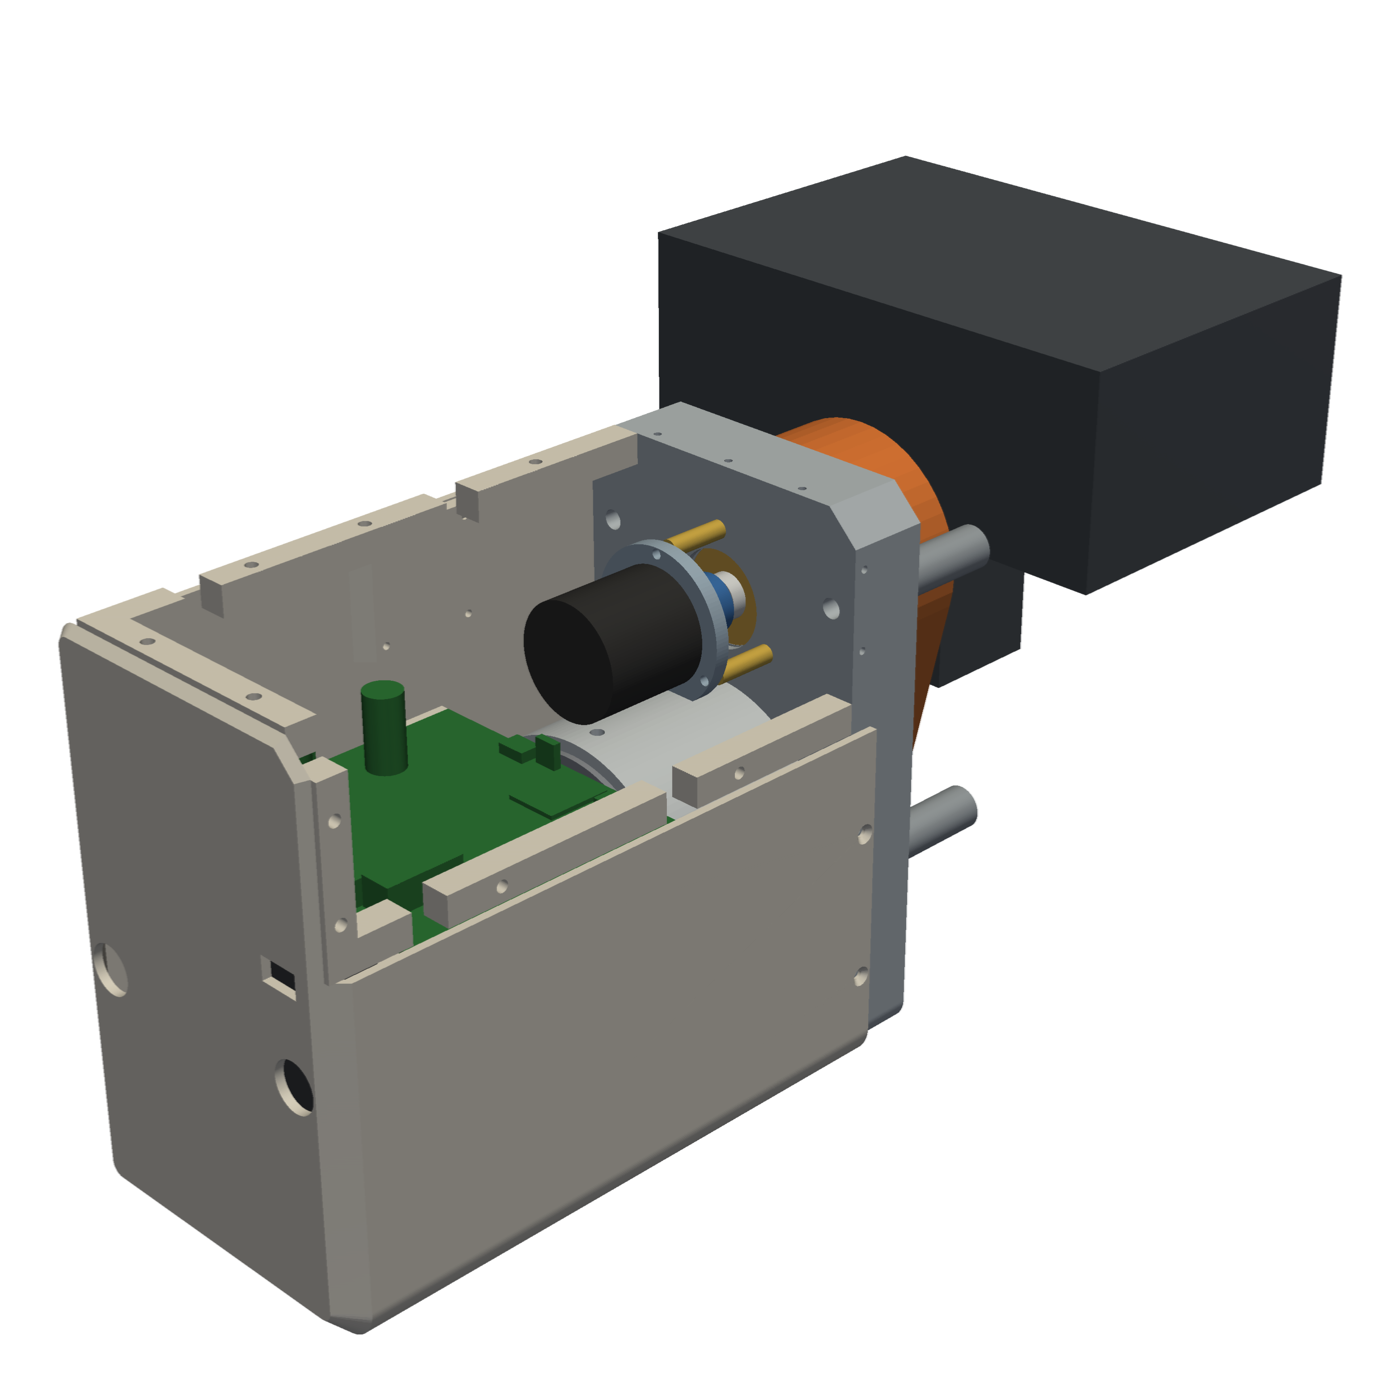
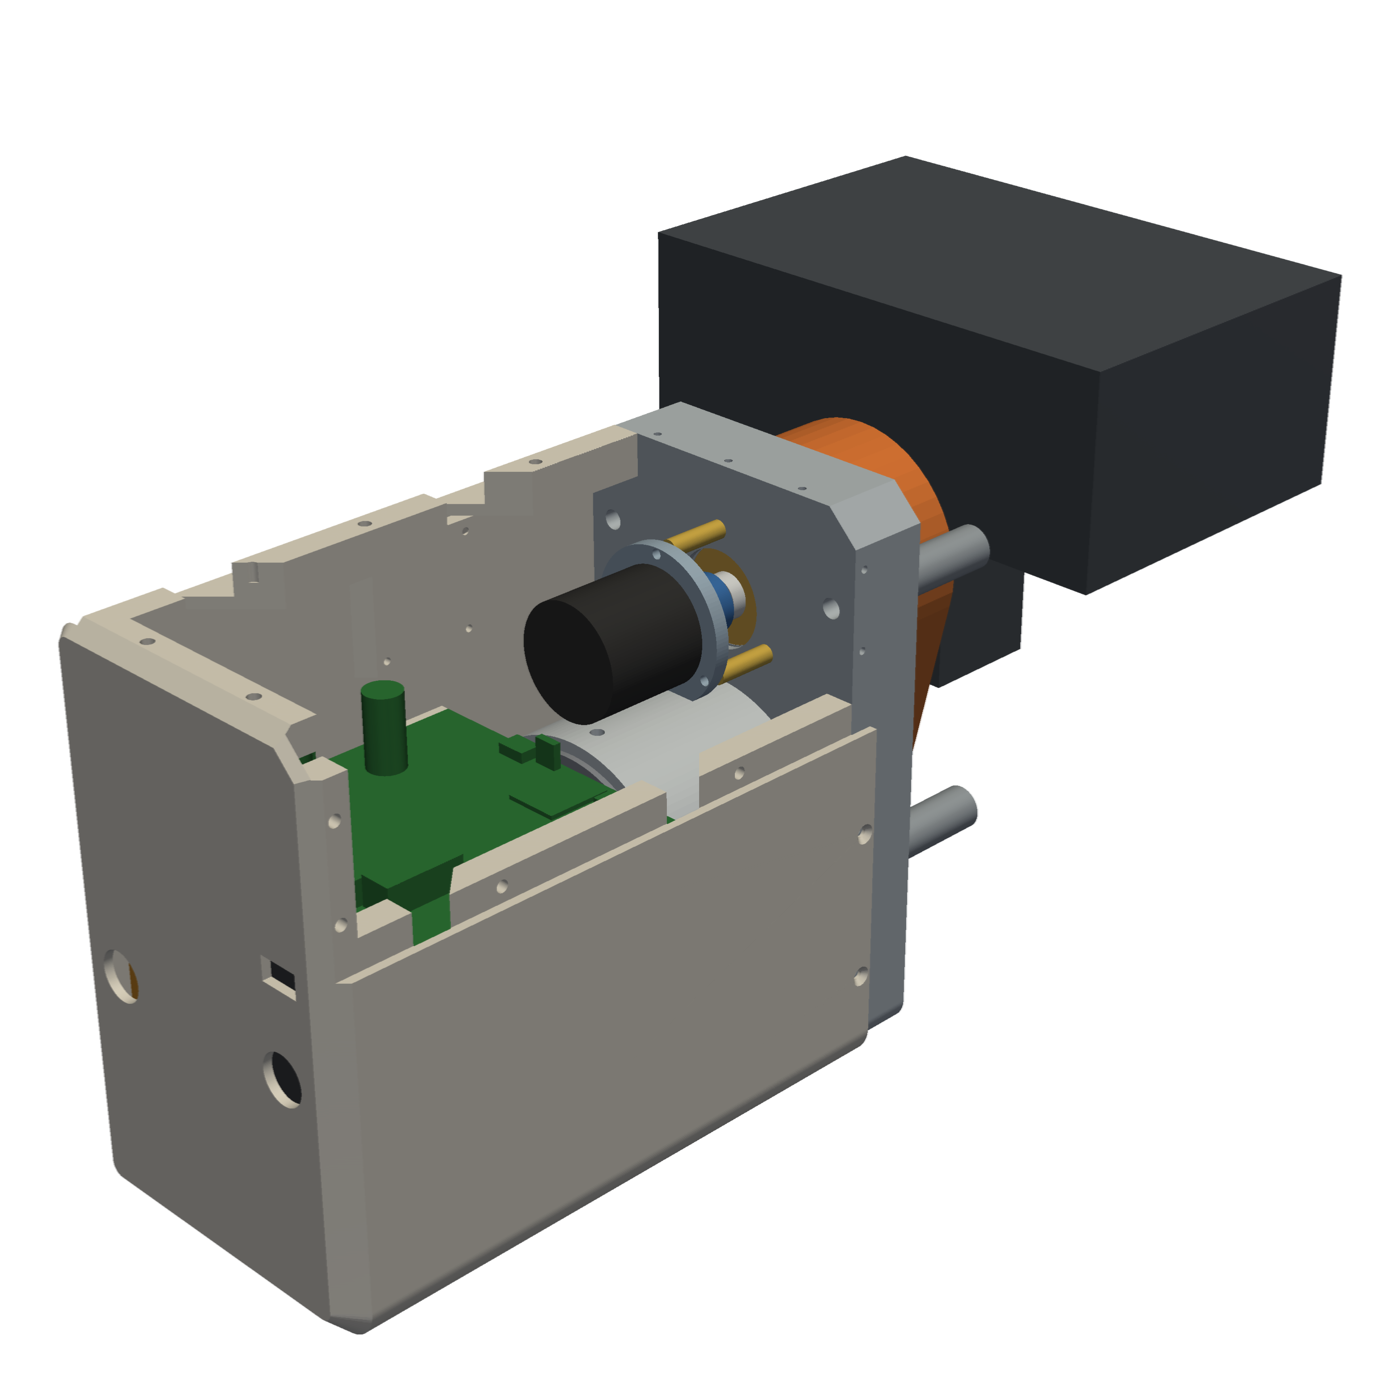
Housing review round 2: every print one solid, rails trimmed to the skin, glands clear
- Back-top rail tied to the back wall by a 4 mm shelf, front rail by a web off the front wall; tool windows get
  a 45° top so the segment above prints unsupported; OLED/adapter posts run into the strip (were 0.25 mm off it)
- Rails intersected with the outer skin (no slivers through the end chamfer)
- Glands at x ±36: locknut and seal clear the shell, 14 mm from the motor tail
- Fan/louvre field lowered under the rail shelf
- check_feed_unit.py: asserts one solid per print and nothing outside the skin

diff --git a/mechanical/feed_unit/feed_unit.py b/mechanical/feed_unit/feed_unit.py
@@ -357,7 +357,7 @@ W_SHELL0 = Z_PLATE_OUT - f.lap                      # open rim, on the plate edg
 RAIL = f.rail
 INSERT_D, INSERT_L = 4.0, 6.0                       # M3 x 5.7 heat-set insert hole
 R_IN = f.r_long - T                                 # inside radius of the long edges
-FAN = dict(w0=115.0, w1=155.0, y0=-7.0, y1=33.0, x_in=XB + 4.5)   # 40 mm fan / louvre field on the back wall
+FAN = dict(w0=115.0, w1=155.0, y0=-12.0, y1=28.0, x_in=XB + 4.5)   # 40 mm fan / louvre field on the back wall
 
 
 def bx(x0, x1, y0, y1, w0, w1):
@@ -471,12 +471,21 @@ def hood_region():
         bx(XB - T - 1, XB + CHAMFER_IN, Y1 - CHAMFER_IN, Y1 + G, W_SHELL0 - 1, W_END - T)
 
 
-def windows(body, x0, x1, y0, y1):
-    """Cut tool-access windows (12 mm long) out of a rail over the PCB's mounting holes."""
-    for _, py in PCB_HOLES[:2] + PCB_HOLES[2:3]:
+def windows(body, x_wall, x_far, y0, y1):
+    """Cut 12 mm tool-access windows over the PCB's mounting holes out of a rail (and its web). The window's low-W
+    side, which is the underside of the rail segment above it while the shell prints standing on its end wall, rises
+    at 45 degrees from the wall, so that segment prints without support."""
+    d = abs(x_far - x_wall)
+    for py in (4, 96):
         w = pcb_to_world(0, py, 0)[2]
-        body = body - bx(x0, x1, y0, y1, w - 6, w + 6)
+        body = body - xw_prism([(x_wall, w - 6), (x_wall, w + 6), (x_far, w + 6), (x_far, w - 6 - d)], y0, y1)
     return body
+
+
+def xy_prism(pts_xy, w0, w1):
+    """Prism from a polygon in the (x, y) plane, extruded along W from w0 to w1."""
+    face = make_face(Polyline(*[(x, y, w0) for x, y in pts_xy], close=True))
+    return extrude(face, amount=w1 - w0, dir=(0, 0, 1))
 
 
 def xw_prism(pts_xw, y0, y1):
@@ -501,14 +510,26 @@ def pcb_bosses():
 def shell():
     """Back, bottom, end and lower-front walls, rails, PCB bosses, louvres: one print standing on the end wall."""
     s = outer_body() - hood_region()
-    xr = XB + CHAMFER_IN                                 # back-top rail sits on the flat part of the top
-    rails = [windows(bx(xr, xr + RAIL, Y1 - RAIL, Y1, Z_PLATE_OUT, W_END - T), xr - 1, xr + RAIL + 1, Y1 - RAIL - 1, Y1 + 1),
-             windows(bx(XF - RAIL, XF, f.band_y, f.band_y + RAIL, Z_PLATE_OUT, W_END - T),
-                     XF - RAIL - 1, XF + 1, f.band_y - 1, f.band_y + RAIL + 1),               # front, behind the strip edge
-             bx(XF - RAIL, XF, f.band_y, Y1 - CHAMFER_IN, W_END - T - RAIL, W_END - T),       # end-front (strip screws)
-             bx(xr, XF - RAIL, Y1 - RAIL, Y1, W_END - T - RAIL, W_END - T)]                   # end-top (hood screws)
+    skin = _rounded(XB - T, X_FP, Y0 - T, Y1 + T, W_SHELL0, W_END, f.r_long, f.r_long, f.r_end)   # trims rails to the skin
+    rail_w = (Z_PLATE_OUT, W_END - T)
+    # back-top rail (hood screws) on the flat part of the top, tied to the back wall by a 4 mm shelf under it (its
+    # section lies in the bed plane while the shell prints, so any shape prints)
+    xr = XB + CHAMFER_IN
+    yr = Y1 - RAIL
+    back = bx(xr, xr + RAIL, yr, Y1, *rail_w)
+    back = back + xy_prism([(XB - G - 0.5, yr - 4), (XB - G - 0.5, Y1 - CHAMFER_IN), (xr, Y1 - CHAMFER_IN), (xr, yr),
+                            (xr + RAIL, yr), (xr + RAIL, yr - 4)], *rail_w)
+    back = windows(back, XB - G - 0.5, xr + RAIL + 0.5, yr - 5, Y1 + 1)
+    # front rail (strip screws) behind the strip's lower edge, carried by a 45-degree web off the front wall below it
+    xf0 = XF - RAIL
+    front = bx(xf0, XF, f.band_y, f.band_y + RAIL, *rail_w)
+    front = front + xy_prism([(XF + G + 0.5, f.band_y - (XF + G + 0.5 - xf0)), (XF + G + 0.5, f.band_y), (xf0, f.band_y)], *rail_w)
+    front = windows(front, XF + G + 0.5, xf0 - 0.5, f.band_y - (XF + G + 0.5 - xf0) - 1, f.band_y + RAIL + 1)
+    rails = [back, front,
+             bx(XF - RAIL, XF + G + 0.5, f.band_y - RAIL, Y1 - CHAMFER_IN, W_END - T - RAIL, W_END - T + 0.5),   # end-front
+             bx(xr, XF - RAIL, Y1 - RAIL, Y1, W_END - T - RAIL, W_END - T + 0.5)]                             # end-top
     for r in rails + pcb_bosses():
-        s = s + r
+        s = s + (r & skin)
     s = s - hood_region()
     for px, py in PCB_HOLES:                                                              # PCB inserts
         x, y, w = pcb_to_world(px, py, 0)
@@ -533,7 +554,7 @@ def shell():
             s = s - xcyl(1.25, fz["x_in"] - 8, fz["x_in"] + 0.1, (fz["y0"] + fz["y1"]) / 2 + dy, (fz["w0"] + fz["w1"]) / 2 + dw)
     # end wall: 2x M16 cable glands LOW, beside the motor (36 V on the J1 side, limit switches on the J7 side): the
     # wires drop from the plugs past the board's edge, behind the motor tail; and the USB-C access slot
-    for xg in (-41.0, 41.0):
+    for xg in (-36.0, 36.0):                     # locknut (23 across corners) clears the inside chamfer
         s = s - wcyl(8.1, W_END - T - 1, W_END + 1, xg, -62.0)
     ux, uy, _ = pcb_to_world(87.6, 100, 1.6 + 1.6)                                # USB-C J4 centre
     s = s - bx(ux - 7.0, ux + 7.0, uy - 4.0, uy + 4.0, W_END - T - 1, W_END + 1)
@@ -554,10 +575,10 @@ def control_cutouts(fp):
     w, y = CTRL["dial"]; fp = fp - xcyl(3.7, X_FRONT - 1, X_FP + 1, y, w) - xcyl(1.6, X_FRONT - 1, X_FRONT + 1.0, y + 7.8, w)
     w, y = CTRL["oled"]; fp = fp - bx(X_FRONT - 1, X_FP + 1, y - 8, y + 8, w - 15, w + 15)
     for dw, dy in ((-15.2, -14.25), (15.2, -14.25), (-15.2, 14.25), (15.2, 14.25)):   # OLED M2 posts
-        fp = fp + xcyl(2.5, X_FRONT - 2.5, X_FRONT, y - 2 + dy, w + dw) - xcyl(0.8, X_FRONT - 2.6, X_FRONT + 1.0, y - 2 + dy, w + dw)
+        fp = fp + xcyl(2.5, X_FRONT - 2.5, XF + G + 0.5, y - 2 + dy, w + dw) - xcyl(0.8, X_FRONT - 2.6, X_FRONT + 1.0, y - 2 + dy, w + dw)
     w, y = CTRL["adapter"]
     for dw, dy in ((-19.5, -11), (19.5, -11), (-19.5, 11), (19.5, 11)):              # adapter board posts, M3 inserts
-        fp = fp + xcyl(4.0, X_FRONT - 5, X_FRONT, y + dy, w + dw) - xcyl(INSERT_D / 2, X_FRONT - 5.1, X_FRONT - 5 + INSERT_L, y + dy, w + dw)
+        fp = fp + xcyl(4.0, X_FRONT - 5, XF + G + 0.5, y + dy, w + dw) - xcyl(INSERT_D / 2, X_FRONT - 5.1, X_FRONT - 5 + INSERT_L, y + dy, w + dw)
     for txt, w, y in LABELS:                                                       # engraved 0.6 deep (3 layers)
         pl = Plane(origin=(X_FP, y, w), x_dir=(0, 0, -1), z_dir=(1, 0, 0))
         try:

diff --git a/mechanical/tools/check_feed_unit.py b/mechanical/tools/check_feed_unit.py
@@ -84,6 +84,19 @@ for t in (-FU.f.tension_slot, FU.f.tension_slot):
     print("  pcb <-> motor at t=%+.0f: %.2f mm" % (t, d))
     if d < 3.0:
         bad += 1
+# every print must be ONE connected solid (no floating rails/posts)
+for n in ("shell", "hood"):
+    k = len(parts[n].solids())
+    print("  %-5s is %d solid(s) %s" % (n, k, "OK" if k == 1 else "<- FLOATING PIECES"))
+    if k != 1:
+        bad += 1
+# nothing pokes through the outer skin (rails trimmed to it)
+skin = FU._rounded(FU.XB - FU.T, FU.X_FP, FU.Y0 - FU.T, FU.Y1 + FU.T, FU.W_SHELL0, FU.W_END, FU.f.r_long, FU.f.r_long, FU.f.r_end)
+for n in ("shell", "hood"):
+    v = (parts[n] - skin).volume
+    print("  %-5s outside the skin: %.3f mm3" % (n, v))
+    if v > 1e-2:
+        bad += 1
 # print-bed fit (Prusa MK3S 250 x 210 x 210) in the STATED orientations, keeping 5 mm off each bed edge:
 #   shell standing on its end wall (print height = W extent), hood with the control strip face down (height = x extent)
 bb = parts["shell"].bounding_box(); hb = parts["hood"].bounding_box()
